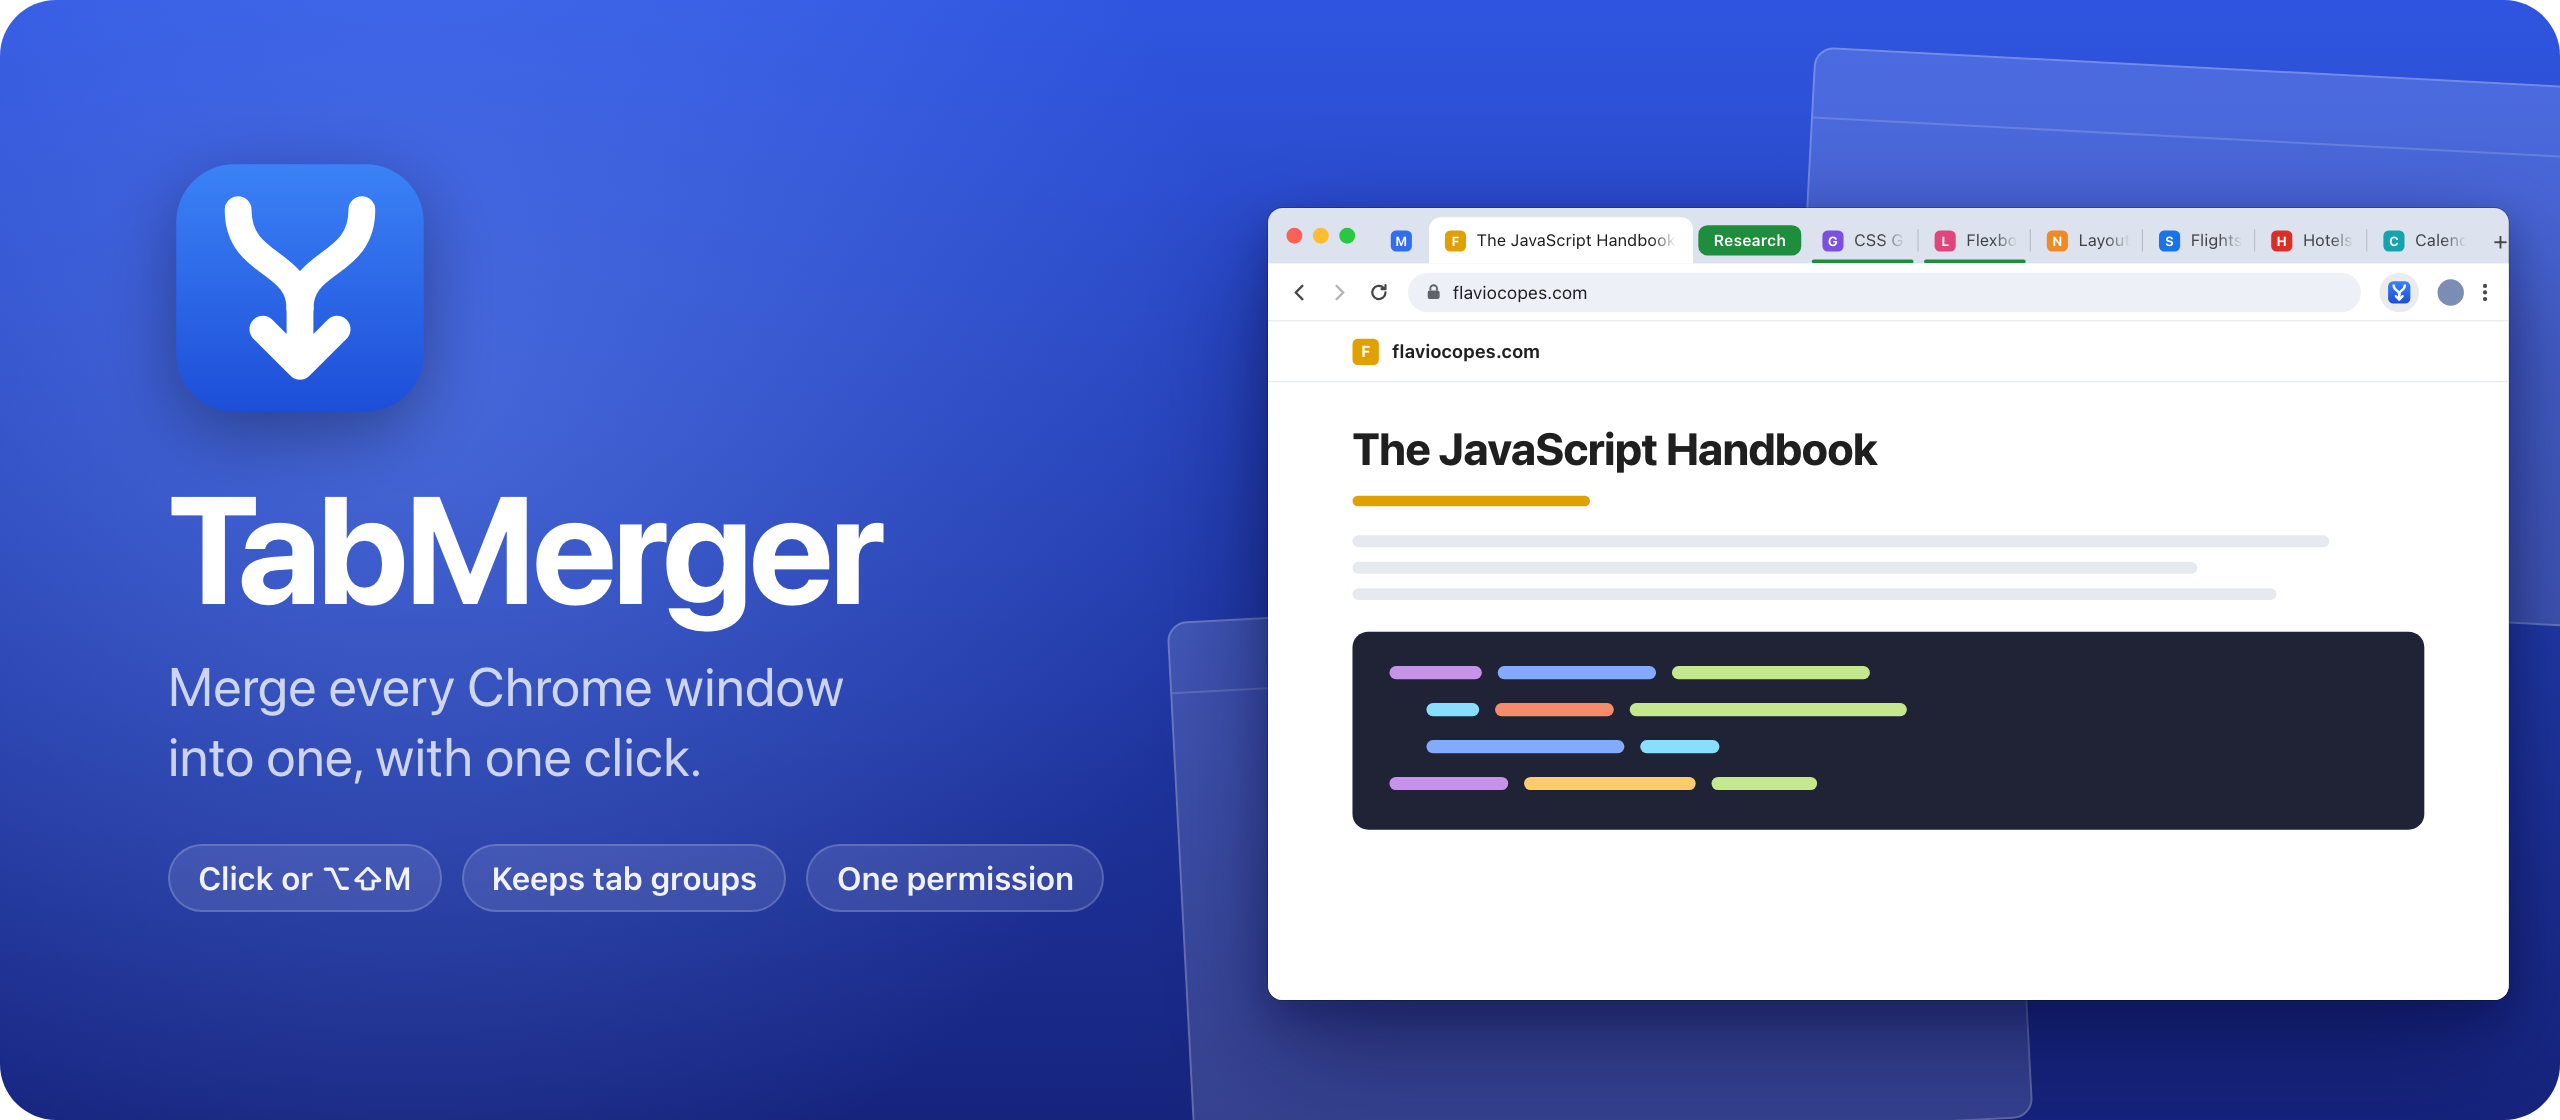
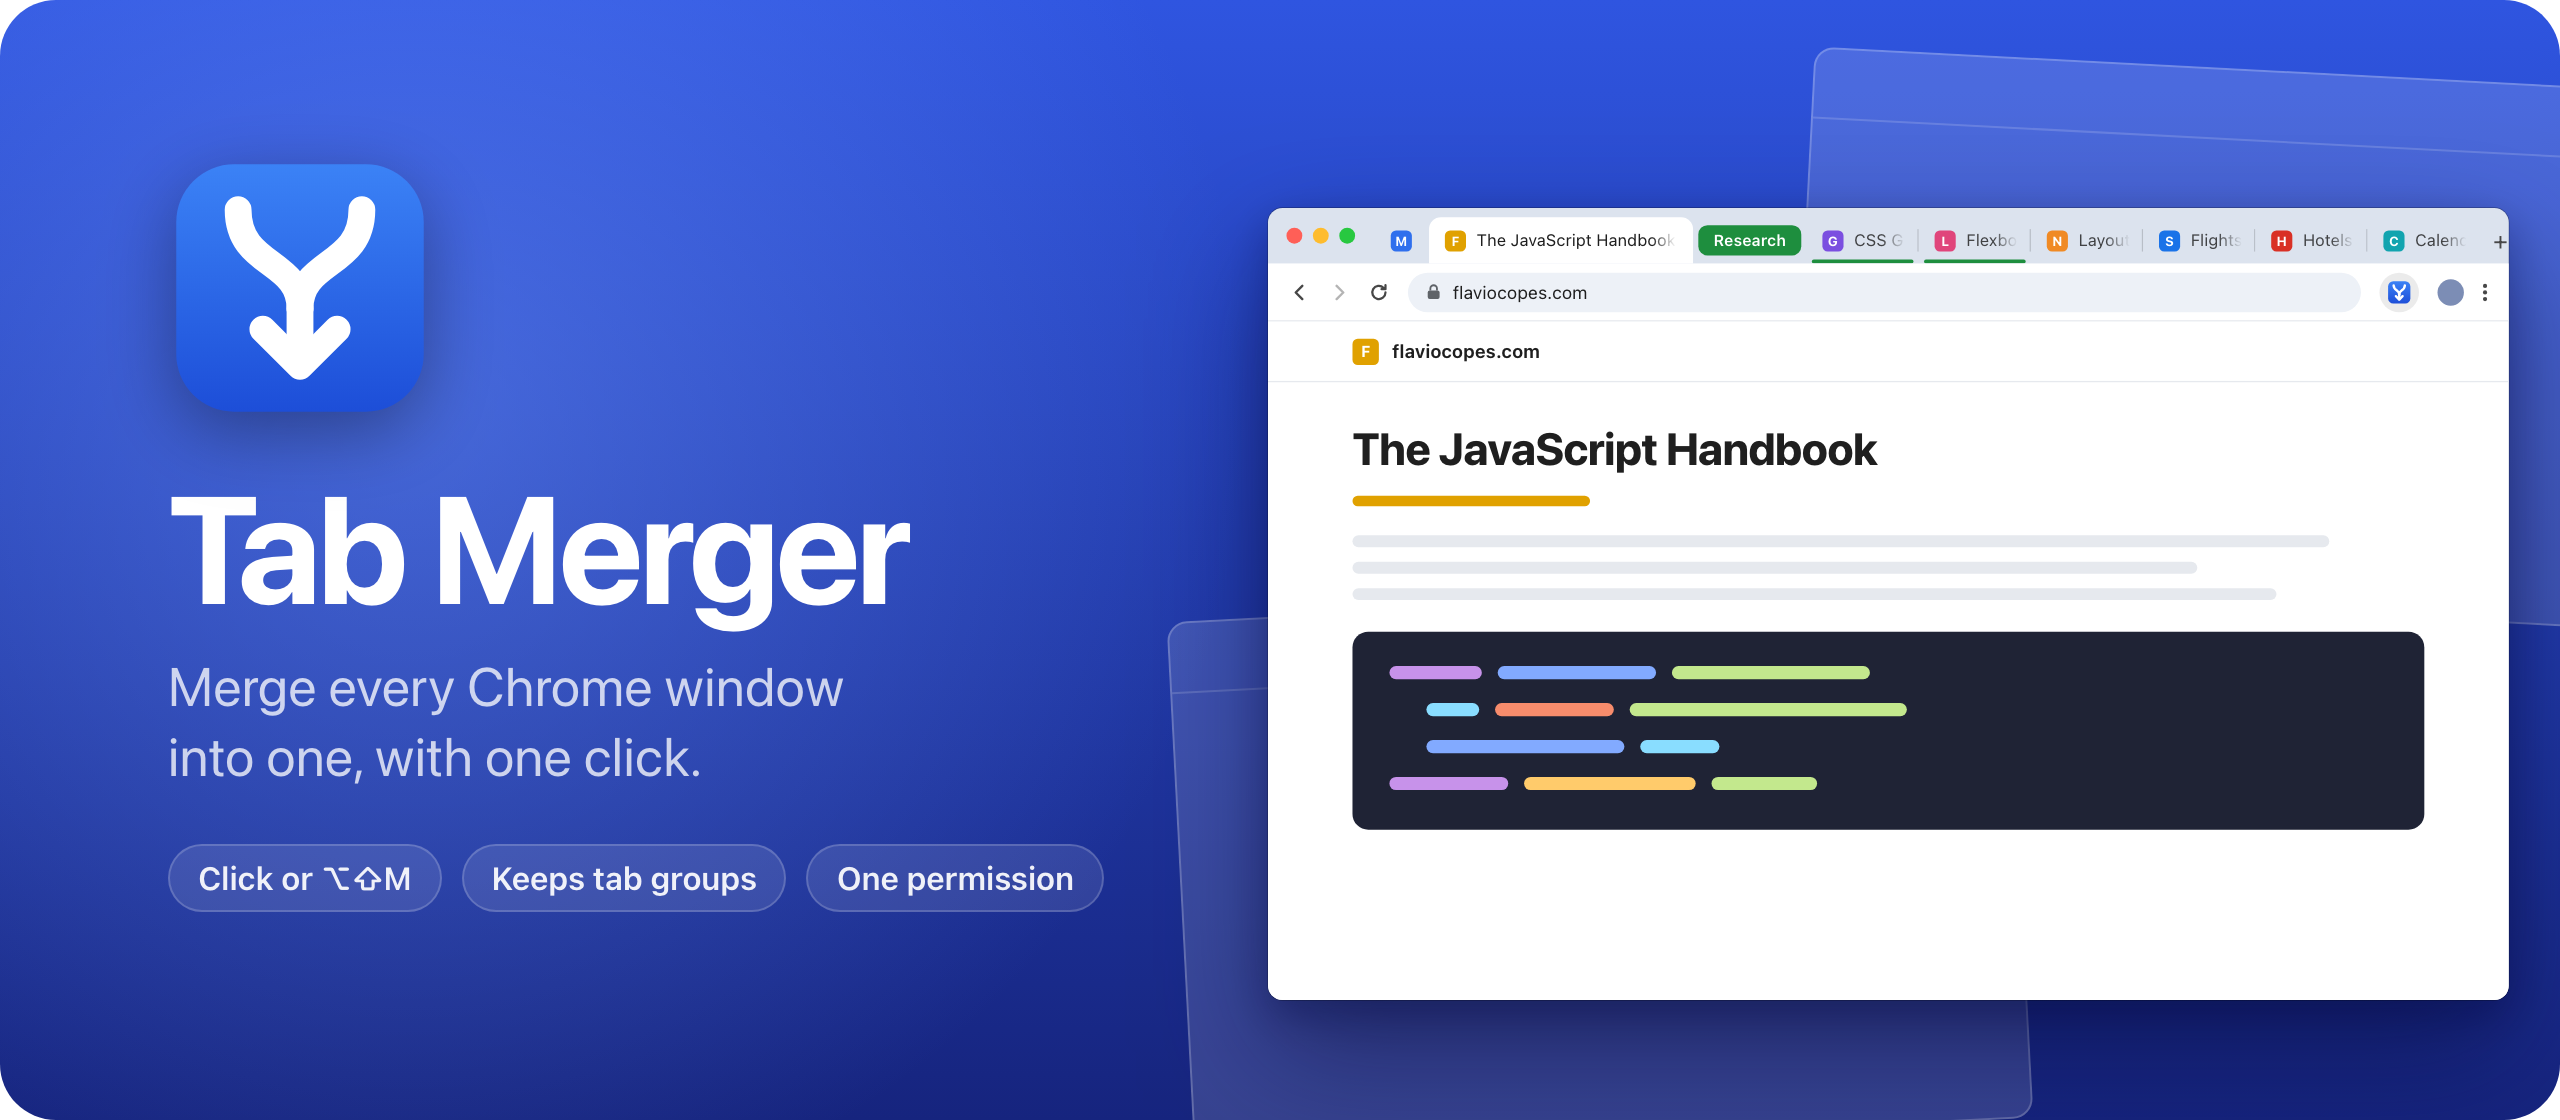
Rename to Tab Merger

Changed region(s): [[0.1562, 0.4375, 0.375, 0.5625]]

diff --git a/scripts/banner.html b/scripts/banner.html
@@ -74,7 +74,7 @@
 <div class="banner">
   <div class="intro">
     <img src="../icons/icon.svg" alt="">
-    <h1>TabMerger</h1>
+    <h1>Tab Merger</h1>
     <p>Merge every Chrome window<br>into one, with one click.</p>
     <div class="chips"><span>Click or ⌥⇧M</span><span>Keeps tab groups</span><span>One permission</span></div>
   </div>

diff --git a/README.md b/README.md
@@ -1,6 +1,6 @@
-<img src="docs/banner.png" alt="TabMerger, a Chrome extension that merges every window into one" />
+<img src="docs/banner.png" alt="Tab Merger, a Chrome extension that merges every window into one" />
 
-TabMerger is a Chrome extension that moves the tabs of every open window into the one you're using. Click its toolbar button or press `Alt+Shift+M`, and five windows become one.
+Tab Merger is a Chrome extension that moves the tabs of every open window into the one you're using. Click its toolbar button or press `Alt+Shift+M`, and five windows become one.
 
 Safari has a Merge All Windows command. Chrome doesn't, so without an extension you drag tabs across one at a time.
 
@@ -8,22 +8,22 @@ Safari has a Merge All Windows command. Chrome doesn't, so without an extension 
 
 Read the announcement and watch the 30-second demo on my blog: [<post title>](https://flaviocopes.com/<slug>/).
 
-[![Watch the 30-second TabMerger demo](docs/showreel-poster.jpg)](https://flaviocopes.com/<slug>/)
+[![Watch the 30-second Tab Merger demo](docs/showreel-poster.jpg)](https://flaviocopes.com/<slug>/)
 -->
 
 ## Install
 
-TabMerger isn't on the Chrome Web Store, so you load it into Chrome yourself. It takes a minute.
+Tab Merger isn't on the Chrome Web Store, so you load it into Chrome yourself. It takes a minute.
 
-1. Get `TabMerger-1.0.0.zip` from the [latest release](https://github.com/flaviocopes/tabmerger/releases/latest) and unzip it.
-2. Move the `TabMerger-1.0.0` folder somewhere it can stay, like your Documents folder. Chrome runs the extension from that folder, so if you delete it, TabMerger is gone.
+1. Get `Tab-Merger-1.0.0.zip` from the [latest release](https://github.com/flaviocopes/tabmerger/releases/latest) and unzip it.
+2. Move the `Tab-Merger-1.0.0` folder somewhere it can stay, like your Documents folder. Chrome runs the extension from that folder, so if you delete it, Tab Merger is gone.
 3. Open `chrome://extensions` and turn on **Developer mode** in the top right corner.
 4. Click **Load unpacked** and pick that folder.
-5. Click the puzzle icon in the toolbar and pin TabMerger, so it's one click away.
+5. Click the puzzle icon in the toolbar and pin Tab Merger, so it's one click away.
 
 ### Updates
 
-An extension you load this way doesn't update on its own. When there's a new release, unzip it and copy its files into your TabMerger folder, replacing the old ones. Then click the reload arrow on the TabMerger card in `chrome://extensions`. Since the folder is the same, Chrome keeps your shortcut and the pinned button.
+An extension you load this way doesn't update on its own. When there's a new release, unzip it and copy its files into your Tab Merger folder, replacing the old ones. Then click the reload arrow on the Tab Merger card in `chrome://extensions`. Since the folder is the same, Chrome keeps your shortcut and the pinned button.
 
 To hear about new versions, click **Watch** on this repo, then **Custom** and **Releases**.
 
@@ -38,19 +38,19 @@ Go there too if the shortcut doesn't work. Chrome skips a suggested shortcut whe
 - Every other window's tabs move into the window you're using, and the empty windows close.
 - Tabs keep their order. They arrive window by window, in the order they had.
 - Tab groups move whole, with their name and color.
-- Pinned tabs stay pinned. Chrome unpins a tab when it moves to another window, so TabMerger pins it again.
-- Incognito tabs never mix with regular ones. If you allow TabMerger in incognito and use it in an incognito window, it merges only the incognito windows.
+- Pinned tabs stay pinned. Chrome unpins a tab when it moves to another window, so Tab Merger pins it again.
+- Incognito tabs never mix with regular ones. If you allow Tab Merger in incognito and use it in an incognito window, it merges only the incognito windows.
 - Popups and installed web app windows are left alone.
 
 ## Privacy
 
-TabMerger asks Chrome for one permission, `tabGroups`, which lets it move tab groups. It can't see the address or the title of your tabs, and it can't read your pages or your history.
+Tab Merger asks Chrome for one permission, `tabGroups`, which lets it move tab groups. It can't see the address or the title of your tabs, and it can't read your pages or your history.
 
 It never goes online, and there are no accounts or analytics.
 
 ## Build it from source
 
-There's no build step. Clone the repo and load the folder itself with **Load unpacked**, as in the install steps. After you edit a file, click the reload arrow on the TabMerger card.
+There's no build step. Clone the repo and load the folder itself with **Load unpacked**, as in the install steps. After you edit a file, click the reload arrow on the Tab Merger card.
 
 To make the release zip, run:
 
@@ -58,7 +58,7 @@ To make the release zip, run:
 scripts/build-release.sh
 ```
 
-It copies the extension files into `dist/TabMerger-<version>.zip` and prints its SHA-256. The same commit always gives the same zip, so you can check that a release matches its tag.
+It copies the extension files into `dist/Tab-Merger-<version>.zip` and prints its SHA-256. The same commit always gives the same zip, so you can check that a release matches its tag.
 
 ## Development
 
@@ -76,7 +76,7 @@ Working with an AI coding agent? Point it at [AGENTS.md](AGENTS.md). It has the 
 
 ## How it works
 
-The whole extension is `background.js`, a service worker of about 40 lines. The shortcut is Chrome's `_execute_action` command, so the button and the shortcut fire the same `action.onClicked` event, with the window you're in. TabMerger then goes through every other normal window with the same incognito state. It moves runs of ungrouped tabs with `chrome.tabs.move` and each group with `chrome.tabGroups.move`, and pins the pinned tabs again at the end.
+The whole extension is `background.js`, a service worker of about 40 lines. The shortcut is Chrome's `_execute_action` command, so the button and the shortcut fire the same `action.onClicked` event, with the window you're in. Tab Merger then goes through every other normal window with the same incognito state. It moves runs of ungrouped tabs with `chrome.tabs.move` and each group with `chrome.tabGroups.move`, and pins the pinned tabs again at the end.
 
 Chrome 137 stopped accepting the `--load-extension` flag, so the test starts Chromium with `--enable-unsafe-extension-debugging` and loads the extension through the DevTools protocol's `Extensions.loadUnpacked`. Then it calls the merge function inside the extension's service worker.
 

diff --git a/AGENTS.md b/AGENTS.md
@@ -1,4 +1,4 @@
-# TabMerger
+# Tab Merger
 
 A Chrome extension that moves the tabs of every open window into the current one, from the toolbar button or `Alt+Shift+M`. It's plain JavaScript with no build step.
 
@@ -8,7 +8,7 @@ A Chrome extension that moves the tabs of every open window into the current one
 - `background.js`: the service worker. `mergeInto(windowId)` walks every other normal window with the same incognito state, moves runs of ungrouped tabs with `chrome.tabs.move`, moves each group whole with `chrome.tabGroups.move`, then re-pins the tabs that were pinned.
 - `icons/`: `icon.svg` is the source, and the PNGs are rendered from it.
 - `scripts/test.mjs`: loads the extension into Playwright's Chromium and checks a real merge.
-- `scripts/build-release.sh`: zips the extension into `dist/TabMerger-<version>.zip`.
+- `scripts/build-release.sh`: zips the extension into `dist/Tab-Merger-<version>.zip`.
 - `scripts/banner.html` and `scripts/render-banner.mjs`: the README banner, rendered to `docs/banner.png`.
 
 ## Build and run
@@ -18,11 +18,11 @@ npm install                          # Playwright, for the test
 npx playwright install chromium      # the browser the test runs in
 npm test                             # merges three windows in Chromium and checks the result
 node scripts/test.mjs <folder>       # the same test on another copy, like an unzipped release
-scripts/build-release.sh             # dist/TabMerger-<version>.zip and its SHA-256
+scripts/build-release.sh             # dist/Tab-Merger-<version>.zip and its SHA-256
 node scripts/render-banner.mjs       # docs/banner.png at 2x
 ```
 
-To try a change in your own Chrome, open `chrome://extensions`, turn on Developer mode, click **Load unpacked** and pick this folder. After editing, click the reload arrow on the TabMerger card.
+To try a change in your own Chrome, open `chrome://extensions`, turn on Developer mode, click **Load unpacked** and pick this folder. After editing, click the reload arrow on the Tab Merger card.
 
 ## Rules
 
